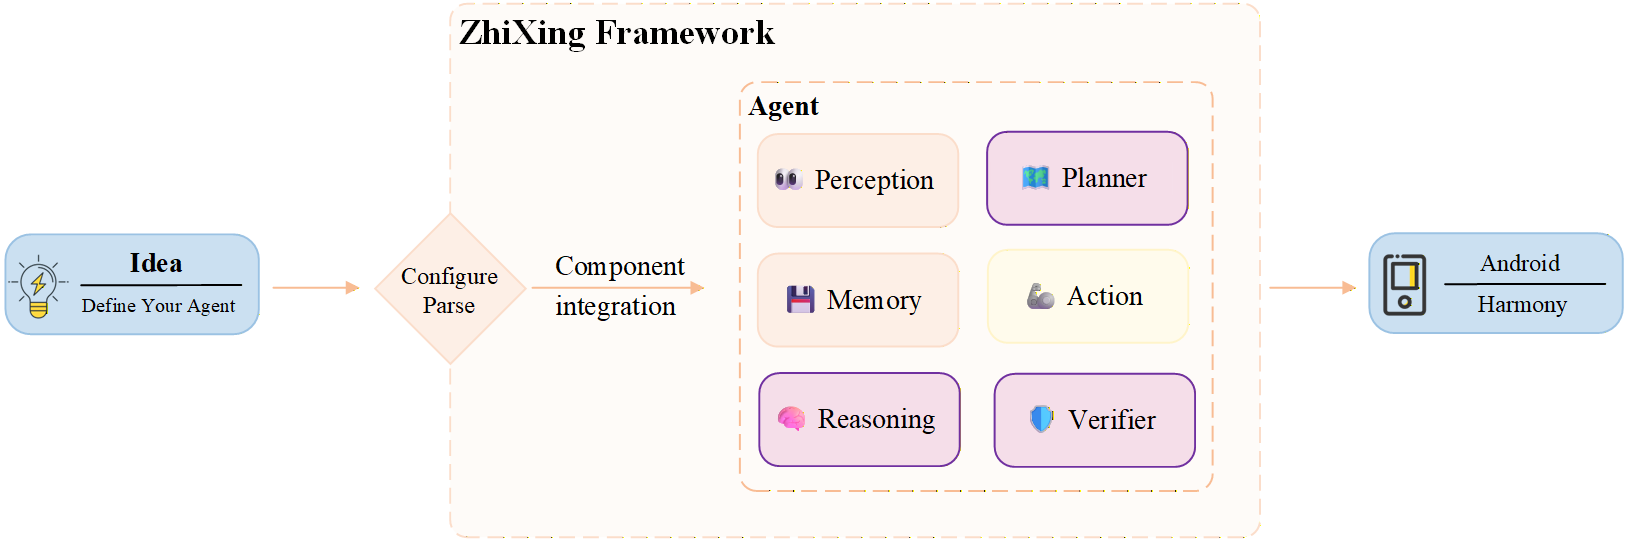
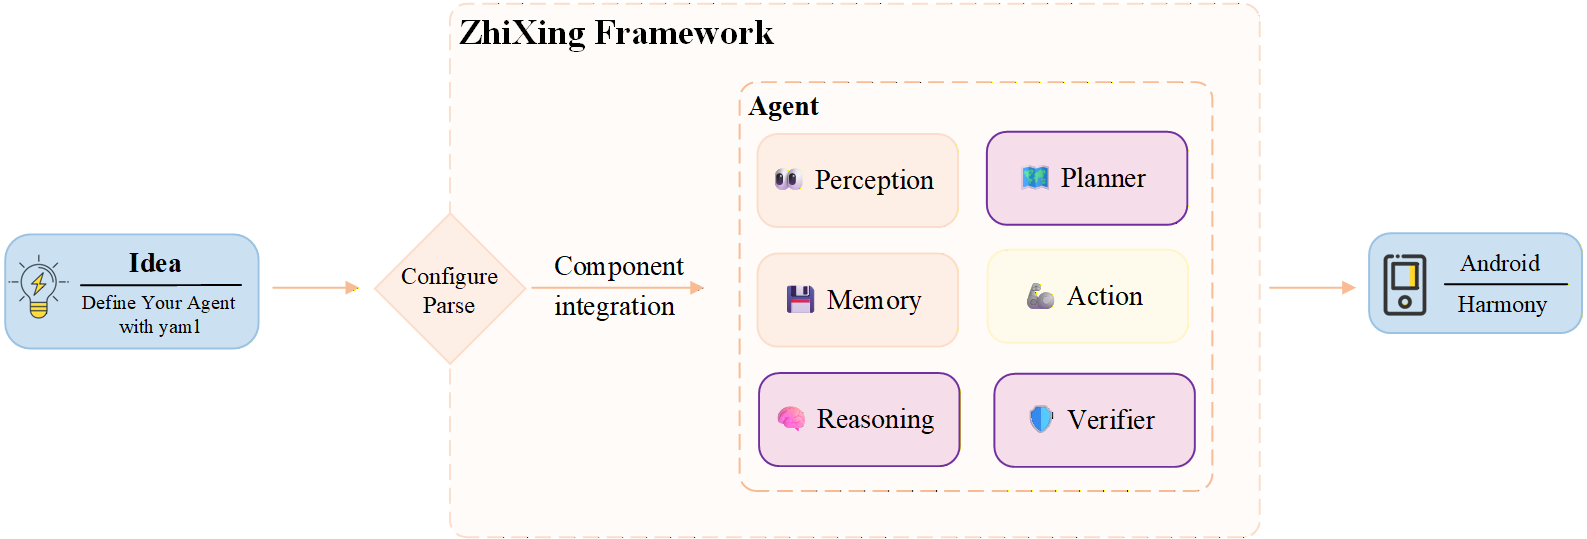
Update README.md

diff --git a/README.md b/README.md
@@ -10,7 +10,7 @@
 
 ZhiXing is a development framework for researchers and practitioners to rapidly build and evaluate agents on Android and HarmonyOS smartphones. It supports seamless integration of diverse agent components (e.g., perception and action modules), and allows developers to quickly prototype agents by writing simple YAML configurations. With ZhiXing, developers can move from ideas to working mobile agents in minutes.
 
-![image-20260125221919010](asset/framework.png)
+![image-20260126151409583](asset/framework.png)
 
 #### Why use ZhiXing?
 
